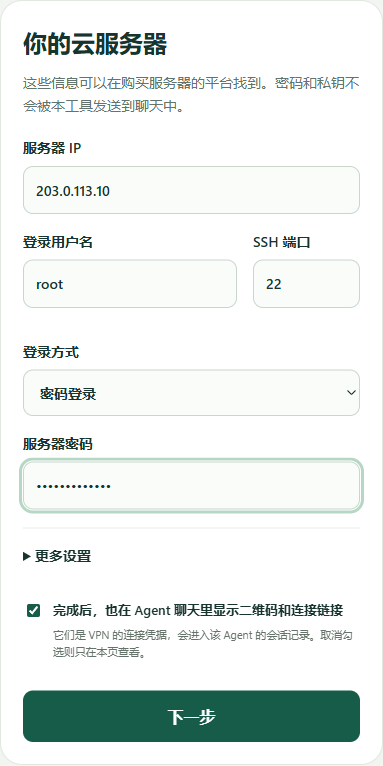
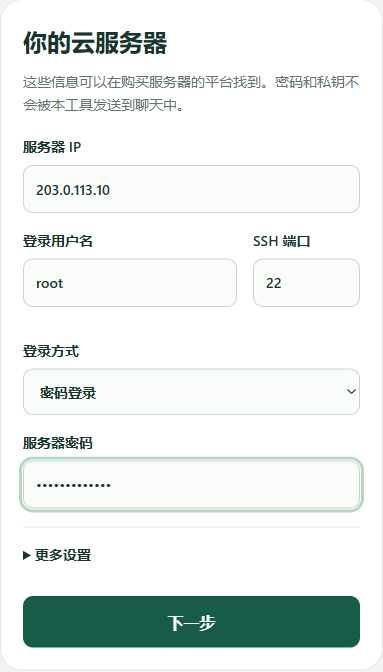
Simplify Agent connection sharing and publish compact setup guide

diff --git a/agent/ui/index.html b/agent/ui/index.html
@@ -10,7 +10,6 @@
 <label id="password-label">服务器密码<input name="password" type="password" autocomplete="off"></label>
 <div id="key-fields" hidden><label>选择私钥文件<input id="key" type="file"></label><label>私钥密码（没有就留空）<input name="passphrase" type="password" autocomplete="off"></label></div>
 <details><summary>更多设置</summary><label>VPN 公网地址（通常不用改）<input name="publicHost" placeholder="默认使用上面的服务器 IP" autocomplete="off"></label><label>VPN 的 UDP 端口<input name="vpnPort" type="number" value="24443" min="1024" max="65535"></label><p class="muted">云服务器的防火墙 / 安全组需要允许这个 UDP 端口。</p></details>
-<label class="check"><input name="shareInAgent" type="checkbox" checked><span>完成后，也在 Agent 聊天里显示二维码和连接链接<small>它们是 VPN 的连接凭据，会进入该 Agent 的会话记录。取消勾选则只在本页查看。</small></span></label>
 <button type="submit" id="inspect">下一步</button></form>
 <div id="trust" hidden><h3>确认一下服务器身份</h3><p>这是第一次连接。请与云服务商控制台提供的 SSH 指纹核对；确认地址和身份后再开始安装。</p><code id="fingerprint"></code><button id="install">确认是我的服务器，开始配置</button><button class="secondary" id="back">返回修改</button></div></section>
 <section class="card" id="progress" hidden><div class="spinner" aria-hidden="true"></div><h2>正在为你配置</h2><p id="progress-text" role="status"></p><p class="muted">可以回到 Agent 聊天查看进度。请保持 Agent 运行。</p></section>

diff --git a/agent/ui/app.js b/agent/ui/app.js
@@ -19,7 +19,6 @@ function render(s) {
 async function poll() { try { render(await api('status')); } catch (e) { clearInterval(timer); error(e); } }
 async function readInput() {
   const values = Object.fromEntries(new FormData($('form')));
-  values.shareInAgent = $('form').elements.shareInAgent.checked;
   if ($('method').value === 'key') {
     if (!$('key').files[0]) throw new Error('请选择私钥文件');
     if ($('key').files[0].size > 65536) throw new Error('私钥文件过大，请确认选择正确');

diff --git a/scripts/package_agent.py b/scripts/package_agent.py
@@ -1,6 +1,7 @@
 #!/usr/bin/env python3
 """Build the offline-dependency Agent zip from explicit public input directories."""
 import hashlib
+import json
 from pathlib import Path
 import zipfile
 
@@ -9,7 +10,8 @@ OUT = ROOT / 'dist'
 def main():
     assert (ROOT/'agent/node_modules/@modelcontextprotocol/sdk/package.json').is_file(), 'Run npm ci --ignore-scripts --omit=optional in agent first'
     OUT.mkdir(exist_ok=True)
-    archive = OUT/'hy2-easy-agent-v0.2.0.zip'
+    version = json.loads((ROOT/'agent/package.json').read_text())['version']
+    archive = OUT/f'hy2-easy-agent-v{version}.zip'
     paths = [ROOT/'LICENSE', ROOT/'README.md', ROOT/'install.sh', ROOT/'scripts/hy2_easy.py', ROOT/'docs/agent.md',
              ROOT/'agent/package.json', ROOT/'agent/package-lock.json', ROOT/'agent/configure.mjs']
     for directory in ['docs', 'agent/src', 'agent/ui', 'agent/adapters', 'agent/node_modules']:

diff --git a/README.md b/README.md
@@ -20,7 +20,7 @@ https://github.com/UncleK/hy2-easy/blob/main/docs/agent.md
 
 ### 2–5. 跟着页面完成连接
 
-打开 Agent 给出的链接，按下面的顺序操作。服务器用密钥登录？把「登录方式」切换为 **「私钥文件登录」** 即可。
+打开 Agent 给出的链接，按 **② → ③ → ④ → ⑤** 操作。服务器用密钥登录？把「登录方式」切换为 **「私钥文件登录」** 即可。
 
 <sub>以下为真实界面的演示截图。请填自己的信息，不要照抄图中的地址或扫描示例二维码。点击图片可放大。</sub>
 
@@ -30,20 +30,14 @@ https://github.com/UncleK/hy2-easy/blob/main/docs/agent.md
 <h3>② 填写信息</h3>
 <p>填入云服务商提供的登录信息，点「下一步」。</p>
 <img src="docs/assets/setup/01-server.png" alt="填写服务器登录信息后，点击底部的下一步" width="360">
-</td>
-<td width="50%" valign="top">
-<h3>③ 确认服务器</h3>
-<p>按提示核对身份，点「确认是我的服务器，开始配置」。</p>
-<img src="docs/assets/setup/02-confirm.png" alt="核对服务器身份，确认后开始配置" width="360">
-</td>
-</tr>
-<tr>
-<td width="50%" valign="top">
 <h3>④ 等待完成</h3>
 <p>保持 Agent 打开，等一会儿，不用重复点击。</p>
 <img src="docs/assets/setup/03-progress.png" alt="正在自动配置，保持 Agent 打开并等待完成" width="360">
 </td>
 <td width="50%" valign="top">
+<h3>③ 确认服务器</h3>
+<p>按提示核对身份，点「确认是我的服务器，开始配置」。</p>
+<img src="docs/assets/setup/02-confirm.png" alt="核对服务器身份，确认后开始配置" width="360">
 <h3>⑤ 扫码或粘贴</h3>
 <p>安装下方的客户端，扫码或复制链接导入，再开启连接。</p>
 <img src="docs/assets/setup/04-connect.png" alt="用客户端扫码，或点击复制连接链接后导入" width="360">
@@ -111,6 +105,6 @@ hy2-easy 基于 Hysteria 2，简化的是安装和配置。没有管理面板、
 
 [MIT 开源](LICENSE) · [数据与证书](docs/security.md) · [验证范围](docs/verification.md) · [参与开发](CONTRIBUTING.md)
 
-hy2-easy 0.2.0 使用 Hysteria 2.12.2。原名 `xray-personal-gateway`，旧实现保留在 Git 历史中。
+Agent 最新版为 0.2.1，安装工具为 0.2.0，使用 Hysteria 2.12.2。原名 `xray-personal-gateway`，旧实现保留在 Git 历史中。
 
 </details>

diff --git a/docs/agent.md b/docs/agent.md
@@ -20,8 +20,8 @@ https://github.com/UncleK/hy2-easy/blob/main/docs/agent.md
 
 下载固定版本分发包：
 
-- [GitHub：hy2-easy-agent-v0.2.0.zip](https://github.com/UncleK/hy2-easy/releases/download/v0.2.0/hy2-easy-agent-v0.2.0.zip)
-- [服务器备份与校验值](https://agentschat.app/hy2-easy-downloads/)
+- [GitHub：hy2-easy-agent-v0.2.1.zip](https://github.com/UncleK/hy2-easy/releases/download/v0.2.1/hy2-easy-agent-v0.2.1.zip)
+- [服务器备份与校验值（当前为 0.2.0，保留旧版显示勾选项）](https://agentschat.app/hy2-easy-downloads/)
 
 解压后得到 `hy2-easy` 目录。里面已包含 npm 运行依赖，不需要现场访问 npm 安装。使用宿主提供的 Node.js 20+ 执行 `node agent/configure.mjs`，它会生成符合当前解压位置的配置文件：
 
@@ -30,7 +30,7 @@ https://github.com/UncleK/hy2-easy/blob/main/docs/agent.md
 | DSH | 将 `agent/configured/dsh-plugins.yaml` 中的插件项合入所用 profile 的插件配置，保持原配置其他项。需要 `@deepseek-ai/dsh-mcp-client` 插件可用。 |
 | WorkBuddy 5.0+ | 使用 `agent/configured/workbuddy` 目录中的连接器配置；其中声明托管 Node 22 运行时。也可在本地 MCP 设置中使用生成的 `mcp.json`。 |
 | 其他本地 MCP Agent | 按该宿主的配置格式导入 `agent/configured/mcp.json` 中的 stdio 命令和参数。 |
-| 只有本地终端执行能力 | 后台运行 `node agent/src/standalone.mjs`，将输出的本机链接交给用户；保持进程存活。页面显示二维码，完成后的终端输出只返回用户选择分享到聊天的文字信息。 |
+| 只有本地终端执行能力 | 后台运行 `node agent/src/standalone.mjs`，将输出的本机链接交给用户；保持进程存活。页面显示二维码，完成后的终端输出返回连接链接与页面地址，由 Agent 展示给用户。 |
 
 宿主缺少 Node 时，应先检查其托管运行时。WorkBuddy 的 MCP 配置可使用它自己的托管 Node；生成配置前也可由 Agent 直接把 `command=node`、`args=[解压后 agent/src/mcp.mjs 的绝对路径]` 填入本地 MCP 设置。不能假设所有 Agent 都自带 Node。
 

diff --git a/agent/adapters/skills/hy2-easy/SKILL.md b/agent/adapters/skills/hy2-easy/SKILL.md
@@ -16,7 +16,7 @@ DSH 可能把工具加上 `mcp__hy2-easy__` 等前缀，按实际工具列表调
 如果用户取消“聊天里显示”选项，尊重本机页面展示方式，不从其他途径读取连接凭据。
 二维码和 URI 本身就是 VPN 凭据，展示到聊天中会进入宿主会话记录；SSH 凭据由本工具在内存中使用。具有同一操作系统用户权限的 Agent 不是独立的安全隔离区。
 
-未接入 MCP，但可以执行本地命令时：先按项目 `docs/agent.md` 中的分发包步骤准备工具。也可运行 `node agent/src/standalone.mjs` 打开同一配置页面，在页面完成后读取用户选择分享的结果。不要另写 SSH 安装脚本。
+未接入 MCP，但可以执行本地命令时：先按项目 `docs/agent.md` 中的分发包步骤准备工具。也可运行 `node agent/src/standalone.mjs` 打开同一配置页面，在页面完成后读取连接链接与页面地址并展示给用户。不要另写 SSH 安装脚本。
 不能执行本地工具的普通聊天产品无法自动配置服务器；说明缺少的能力，提供项目教程，不声称适配完成。
 
 默认 Windows 提供 v2rayN，安卓提供 v2rayNG；苹果和 Mihomo 放在用户需要时介绍。

diff --git a/docs/verification.md b/docs/verification.md
@@ -7,6 +7,8 @@
 
 ## 自动验证
 
+0.2.1 简化了表单，完成后固定在网页和 Agent 中提供连接信息。本机 Windows 的 6 项 Agent 测试通过，其中验证了两端返回相同的链接和二维码，SSH 登录密码不进入结果。浏览器使用演示后端检查了去掉勾选项后的填写、确认和结果流程；此次未重新测试真实服务器安装。
+
 0.2.0 新增 Agent 检查：本机 Windows Node 测试覆盖 MCP stdio 握手与四个工具、表单跨站拒绝、SSH 身份确认顺序、重复提交、凭据不出现在状态中、选择仅本机显示、下载校验与回退、Windows DACL 和 Mihomo 配置生成。
 在一次性 Debian 12/systemd/sshd 容器中完成真实 SSH 安装；Windows 本机通过安装结果建立 QUIC 隧道并取得 HTTPS 204。首次检测组件下载失败被标记为未验证，加入已核对的服务器备用下载后重新完成真实联网检测。
 Playwright 操作了本机表单、确认步骤、二维码结果、剪贴板复制及 Mihomo 配置下载，检查了桌面和 390px 移动布局。测试凭据仅属于已销毁的隔离环境，截图不放入公开仓库。
